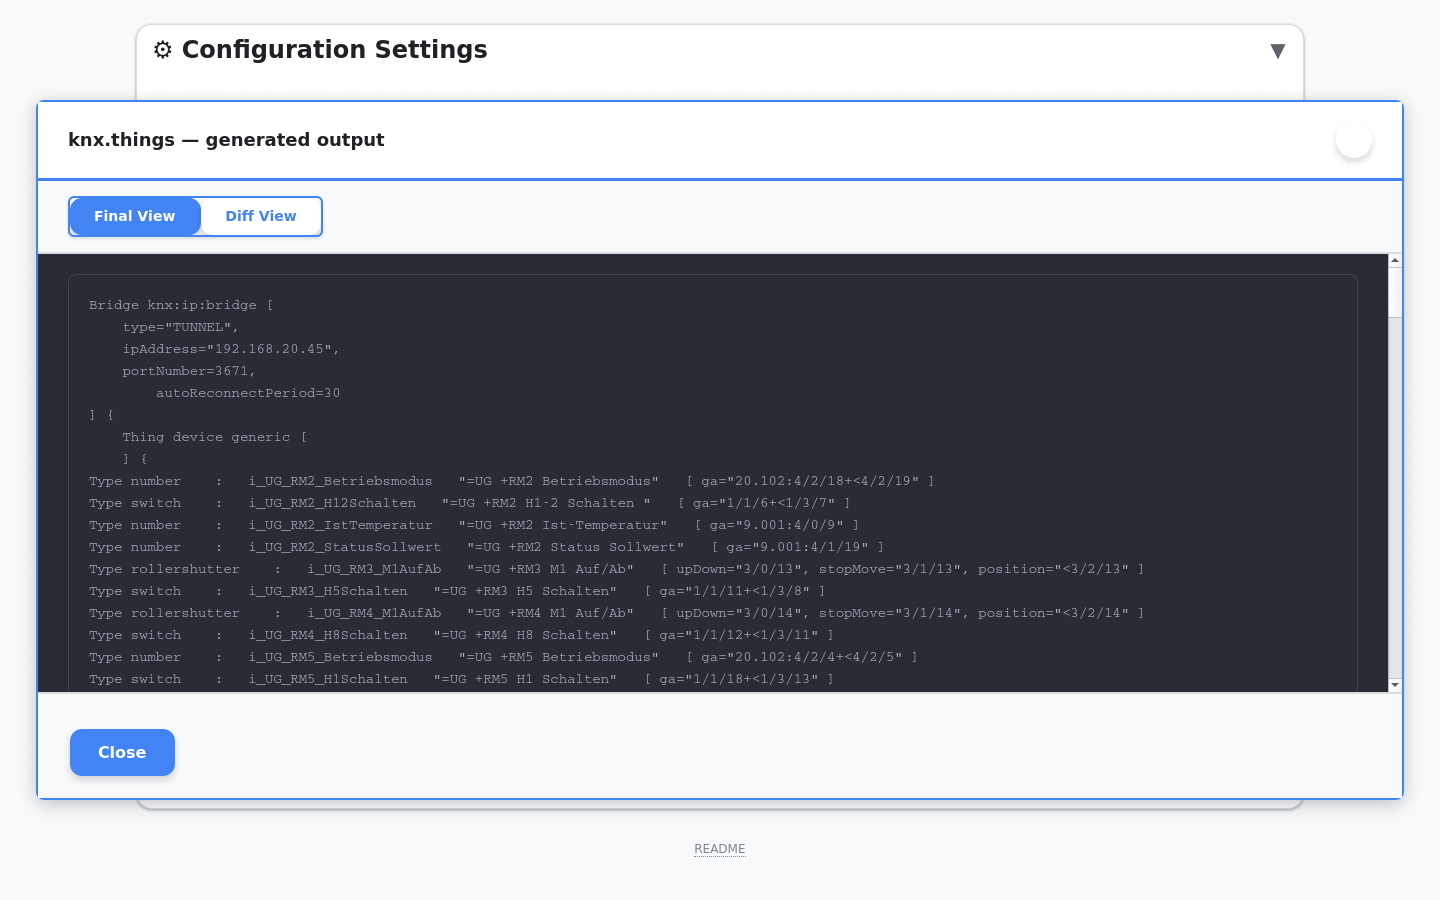
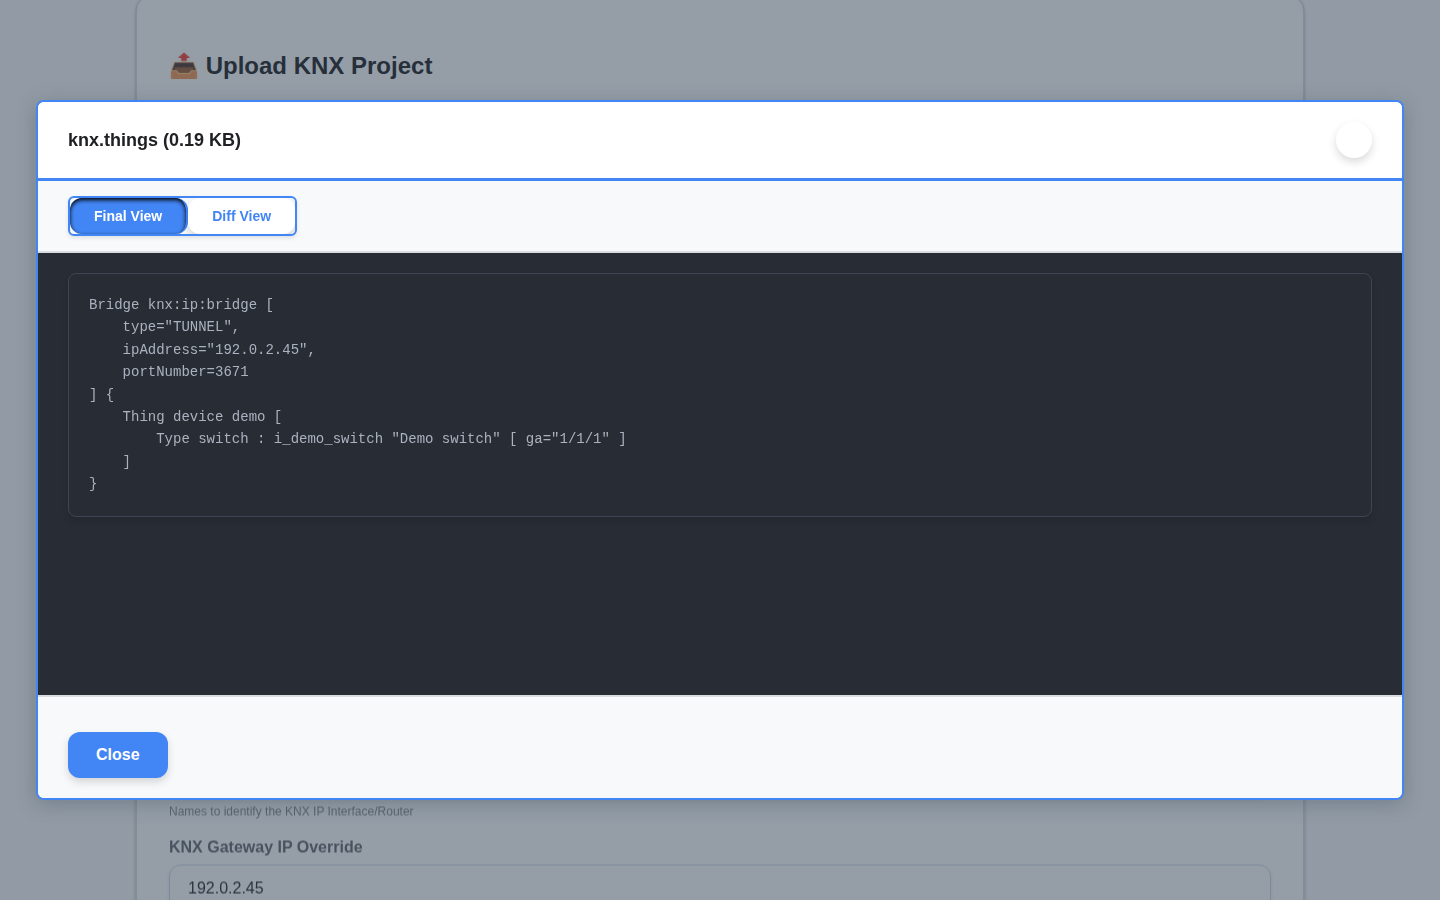
docs: replace Issue 40 preview with synthetic UI capture

diff --git a/tests/ui/test_gateway_live_update.py b/tests/ui/test_gateway_live_update.py
@@ -537,11 +537,15 @@ def test_issue40_documentation_views_use_example_data(page: Page, flask_server):
     page.get_by_role("button", name="Devices").click()
     page.locator("#conf-gateway-ip").fill("192.0.2.45")
     expect(page.locator("#conf-gateway-ip")).to_have_value("192.0.2.45")
+    expect(page.locator("#tab-devices")).to_be_visible()
+    page.wait_for_timeout(400)  # Let the tab animation finish before capturing documentation.
 
     screenshot_dir = Path(__file__).resolve().parents[2] / "test-results"
     if os.getenv("SAVE_UI_SCREENSHOTS") == "1":
         screenshot_dir.mkdir(parents=True, exist_ok=True)
-        page.screenshot(path=str(screenshot_dir / "issue-40-gateway-ip-settings.png"))
+        page.locator("#settings-section").screenshot(
+            path=str(screenshot_dir / "issue-40-gateway-ip-settings.png")
+        )
 
     example_things = """Bridge knx:ip:bridge [
     type="TUNNEL",

diff --git a/docs/screenshots/issue-40-gateway-ip.md b/docs/screenshots/issue-40-gateway-ip.md
@@ -1,6 +1,6 @@
 # Issue #40: KNX gateway IP override
 
-These screenshots show the updated Devices settings and the generated `knx.things` output. The sample address is `192.168.20.45`.
+These screenshots show the updated Devices settings and a `knx.things` file preview. They were captured from the Web UI with synthetic example data: the documentation IP address `192.0.2.45` and group address `1/1/1`.
 
 ## Devices settings
 
@@ -10,6 +10,6 @@ The optional override is saved with the gateway settings. Leave it blank to keep
 
 ## Generated output
 
-The staged file preview shows the override applied to the KNX bridge while the rest of the generated configuration remains present.
+The file preview shows how the override appears in the KNX bridge. Its displayed Thing and group address are synthetic examples, not output from an ETS project.
 
 ![Generated knx.things showing the gateway IP override](issue-40-generated-knx-things.png)
